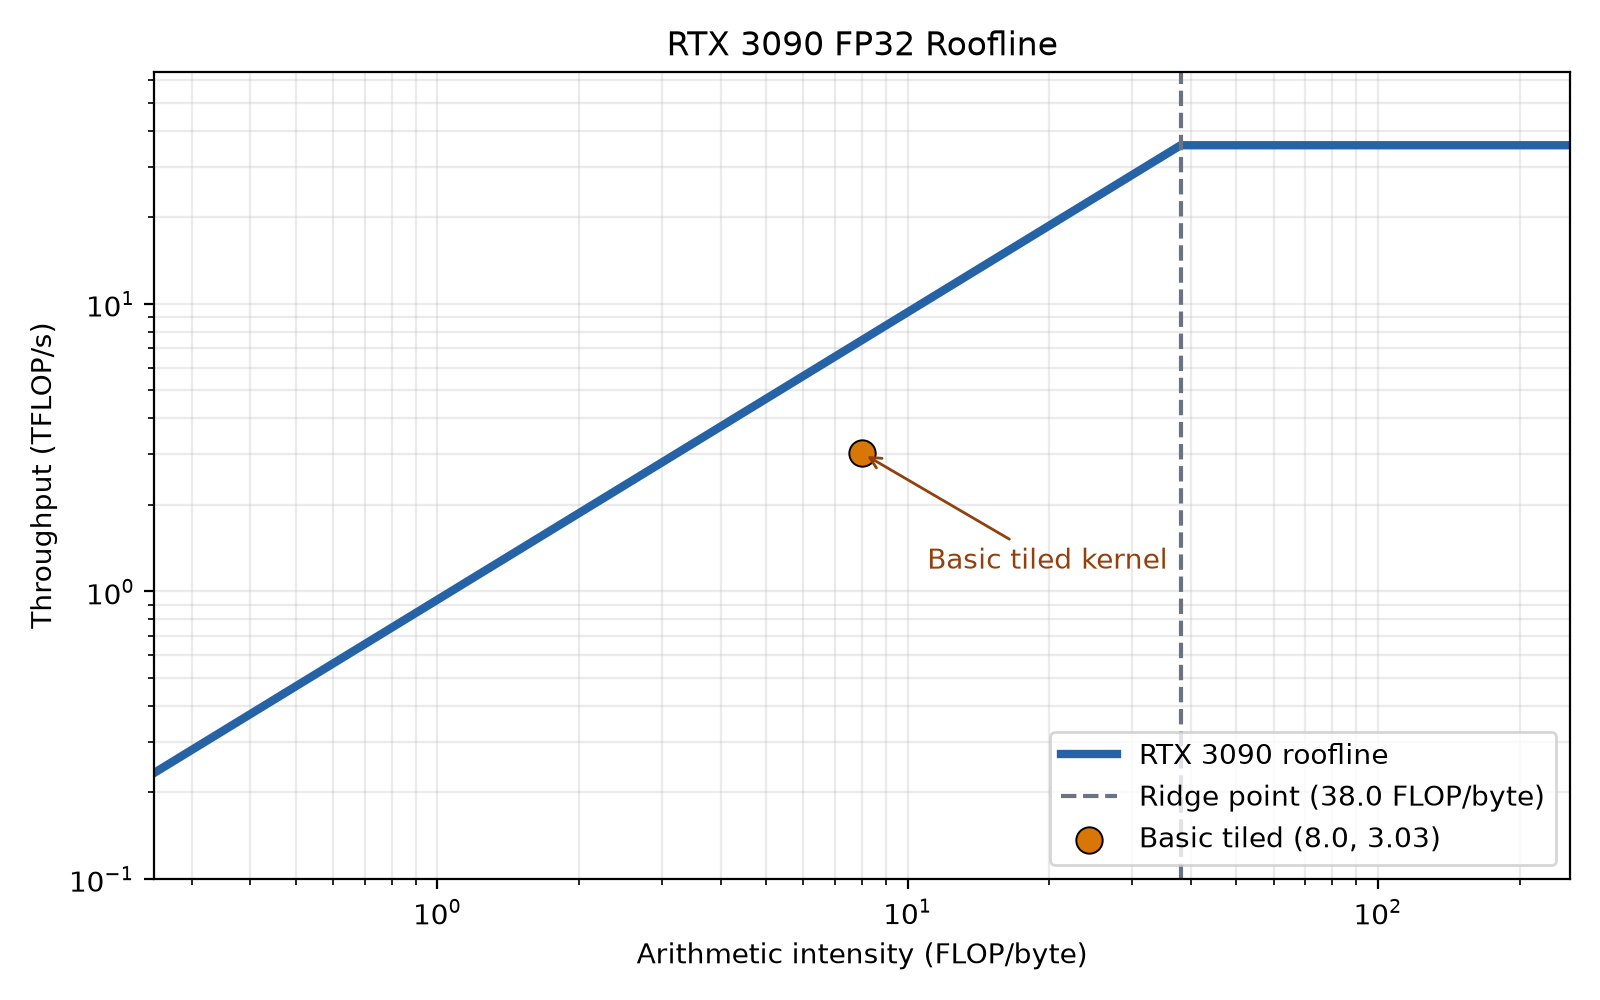
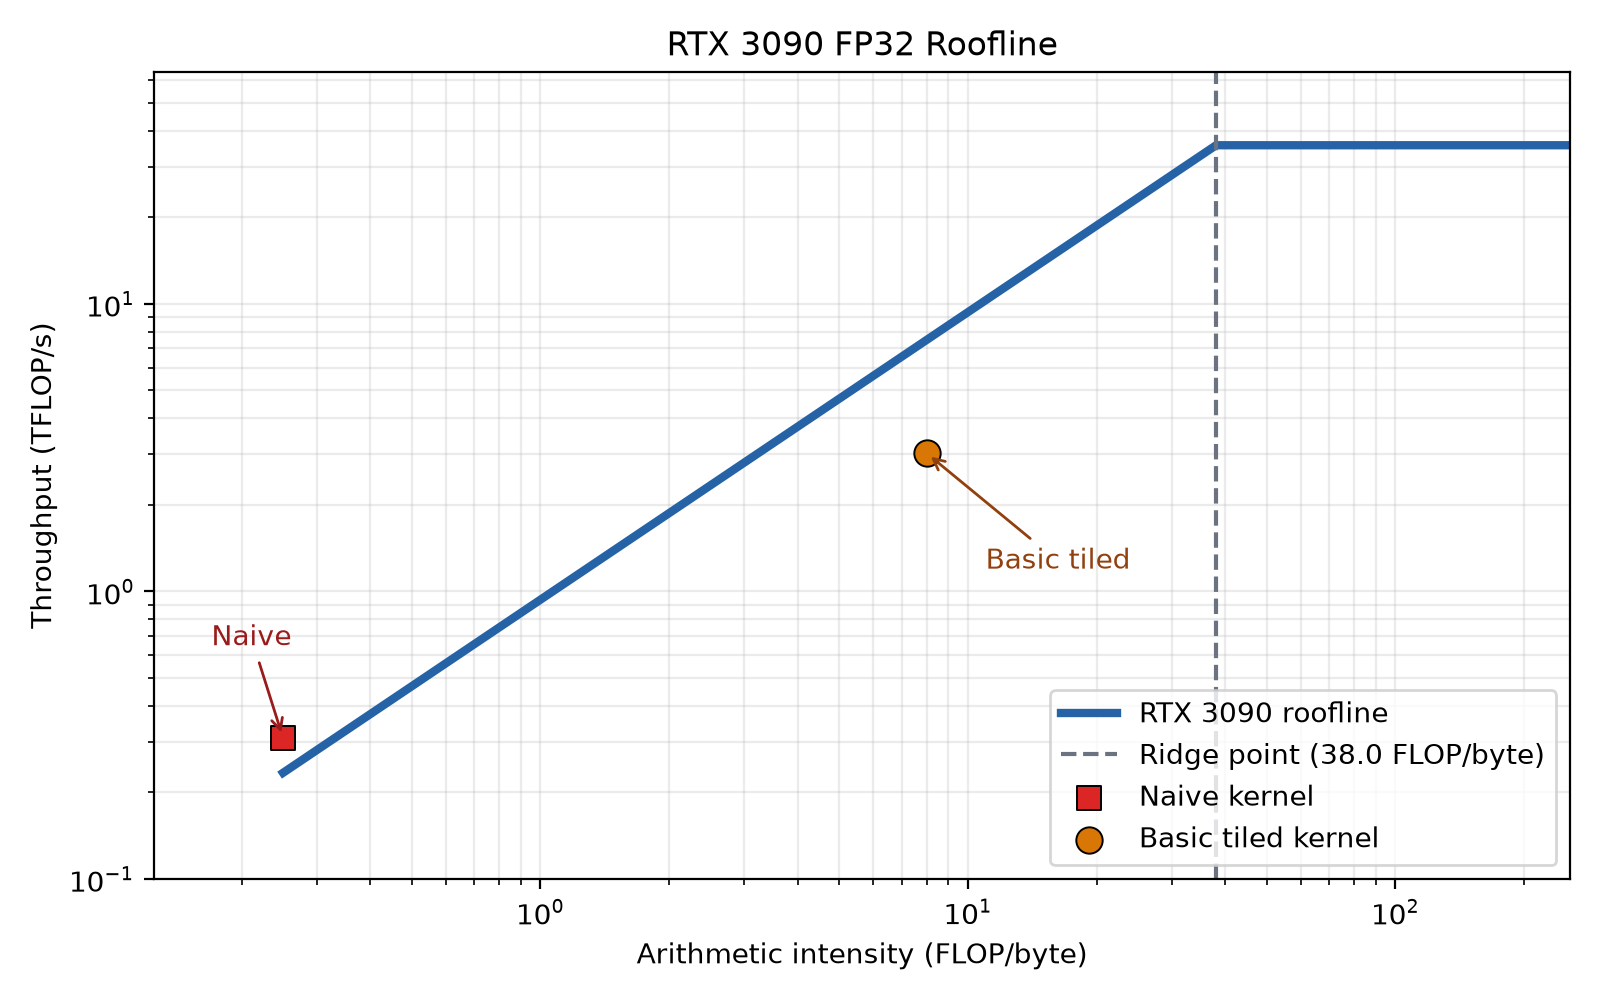
Add naive kernel to roofline comparison

diff --git a/src/cs4630/plots.py b/src/cs4630/plots.py
@@ -149,6 +149,9 @@ def main():
         min(peak_tflops, bandwidth_tb_s * intensity)
         for intensity in arithmetic_intensities
     ]
+    naive_size = naive_sizes[-1]
+    naive_tflops = 2 * naive_size**3 / naive_latencies[-1] / 1e12
+    naive_intensity = 0.25
     tiled_size = tiled_sizes[-1]
     tiled_tflops = 2 * tiled_size**3 / tiled_latencies[-1] / 1e12
     tiled_intensity = 8.0
@@ -169,6 +172,17 @@ def main():
         label=f"Ridge point ({ridge_point:.1f} FLOP/byte)",
     )
     axis.scatter(
+        [naive_intensity],
+        [naive_tflops],
+        s=80,
+        marker="s",
+        color="#dc2626",
+        edgecolor="black",
+        linewidth=0.7,
+        zorder=3,
+        label="Naive kernel",
+    )
+    axis.scatter(
         [tiled_intensity],
         [tiled_tflops],
         s=90,
@@ -177,16 +191,23 @@ def main():
         edgecolor="black",
         linewidth=0.7,
         zorder=3,
-        label=f"Basic tiled ({tiled_intensity:.1f}, {tiled_tflops:.2f})",
+        label="Basic tiled kernel",
     )
     axis.annotate(
-        "Basic tiled kernel",
+        "Naive",
+        xy=(naive_intensity, naive_tflops),
+        xytext=(0.17, 0.65),
+        arrowprops={"arrowstyle": "->", "color": "#991b1b"},
+        color="#991b1b",
+    )
+    axis.annotate(
+        "Basic tiled",
         xy=(tiled_intensity, tiled_tflops),
         xytext=(11, 1.2),
         arrowprops={"arrowstyle": "->", "color": "#92400e"},
         color="#92400e",
     )
-    axis.set_xlim(0.25, 256)
+    axis.set_xlim(0.125, 256)
     axis.set_ylim(0.1, 64)
     axis.set_xlabel("Arithmetic intensity (FLOP/byte)")
     axis.set_ylabel("Throughput (TFLOP/s)")

diff --git a/presentation/main.tex b/presentation/main.tex
@@ -790,11 +790,28 @@ for (int bkIdx = 0; bkIdx < K; bkIdx += BLOCKSIZE) {
   }
 
   \only<5>{
-    \centering
-    \includegraphics[width=0.9\textwidth]{rtx3090_roofline.png}
+    \begin{columns}[c,onlytextwidth]
+      \begin{column}{0.69\textwidth}
+        \centering
+        \includegraphics[width=\linewidth]{rtx3090_roofline.png}
+      \end{column}
+      \begin{column}{0.29\textwidth}
+        \centering
+        \textbf{At $n=8192$}
 
-    \small The tiled kernel's $8.0$ FLOP/byte is below the $38.0$ FLOP/byte
-    ridge point, so it remains memory-bound.
+        \medskip
+        \scriptsize
+        \setlength{\tabcolsep}{2pt}
+        \begin{tabular}{lrr}
+          \textbf{Kernel} & \textbf{AI} & \textbf{TFLOP/s} \\
+          Naive & 0.25 & 0.31 \\
+          Basic tiled & 8.0 & 3.03
+        \end{tabular}
+
+        \medskip
+        {\tiny AI is measured in FLOP/byte.}
+      \end{column}
+    \end{columns}
   }
 \end{frame}
 
